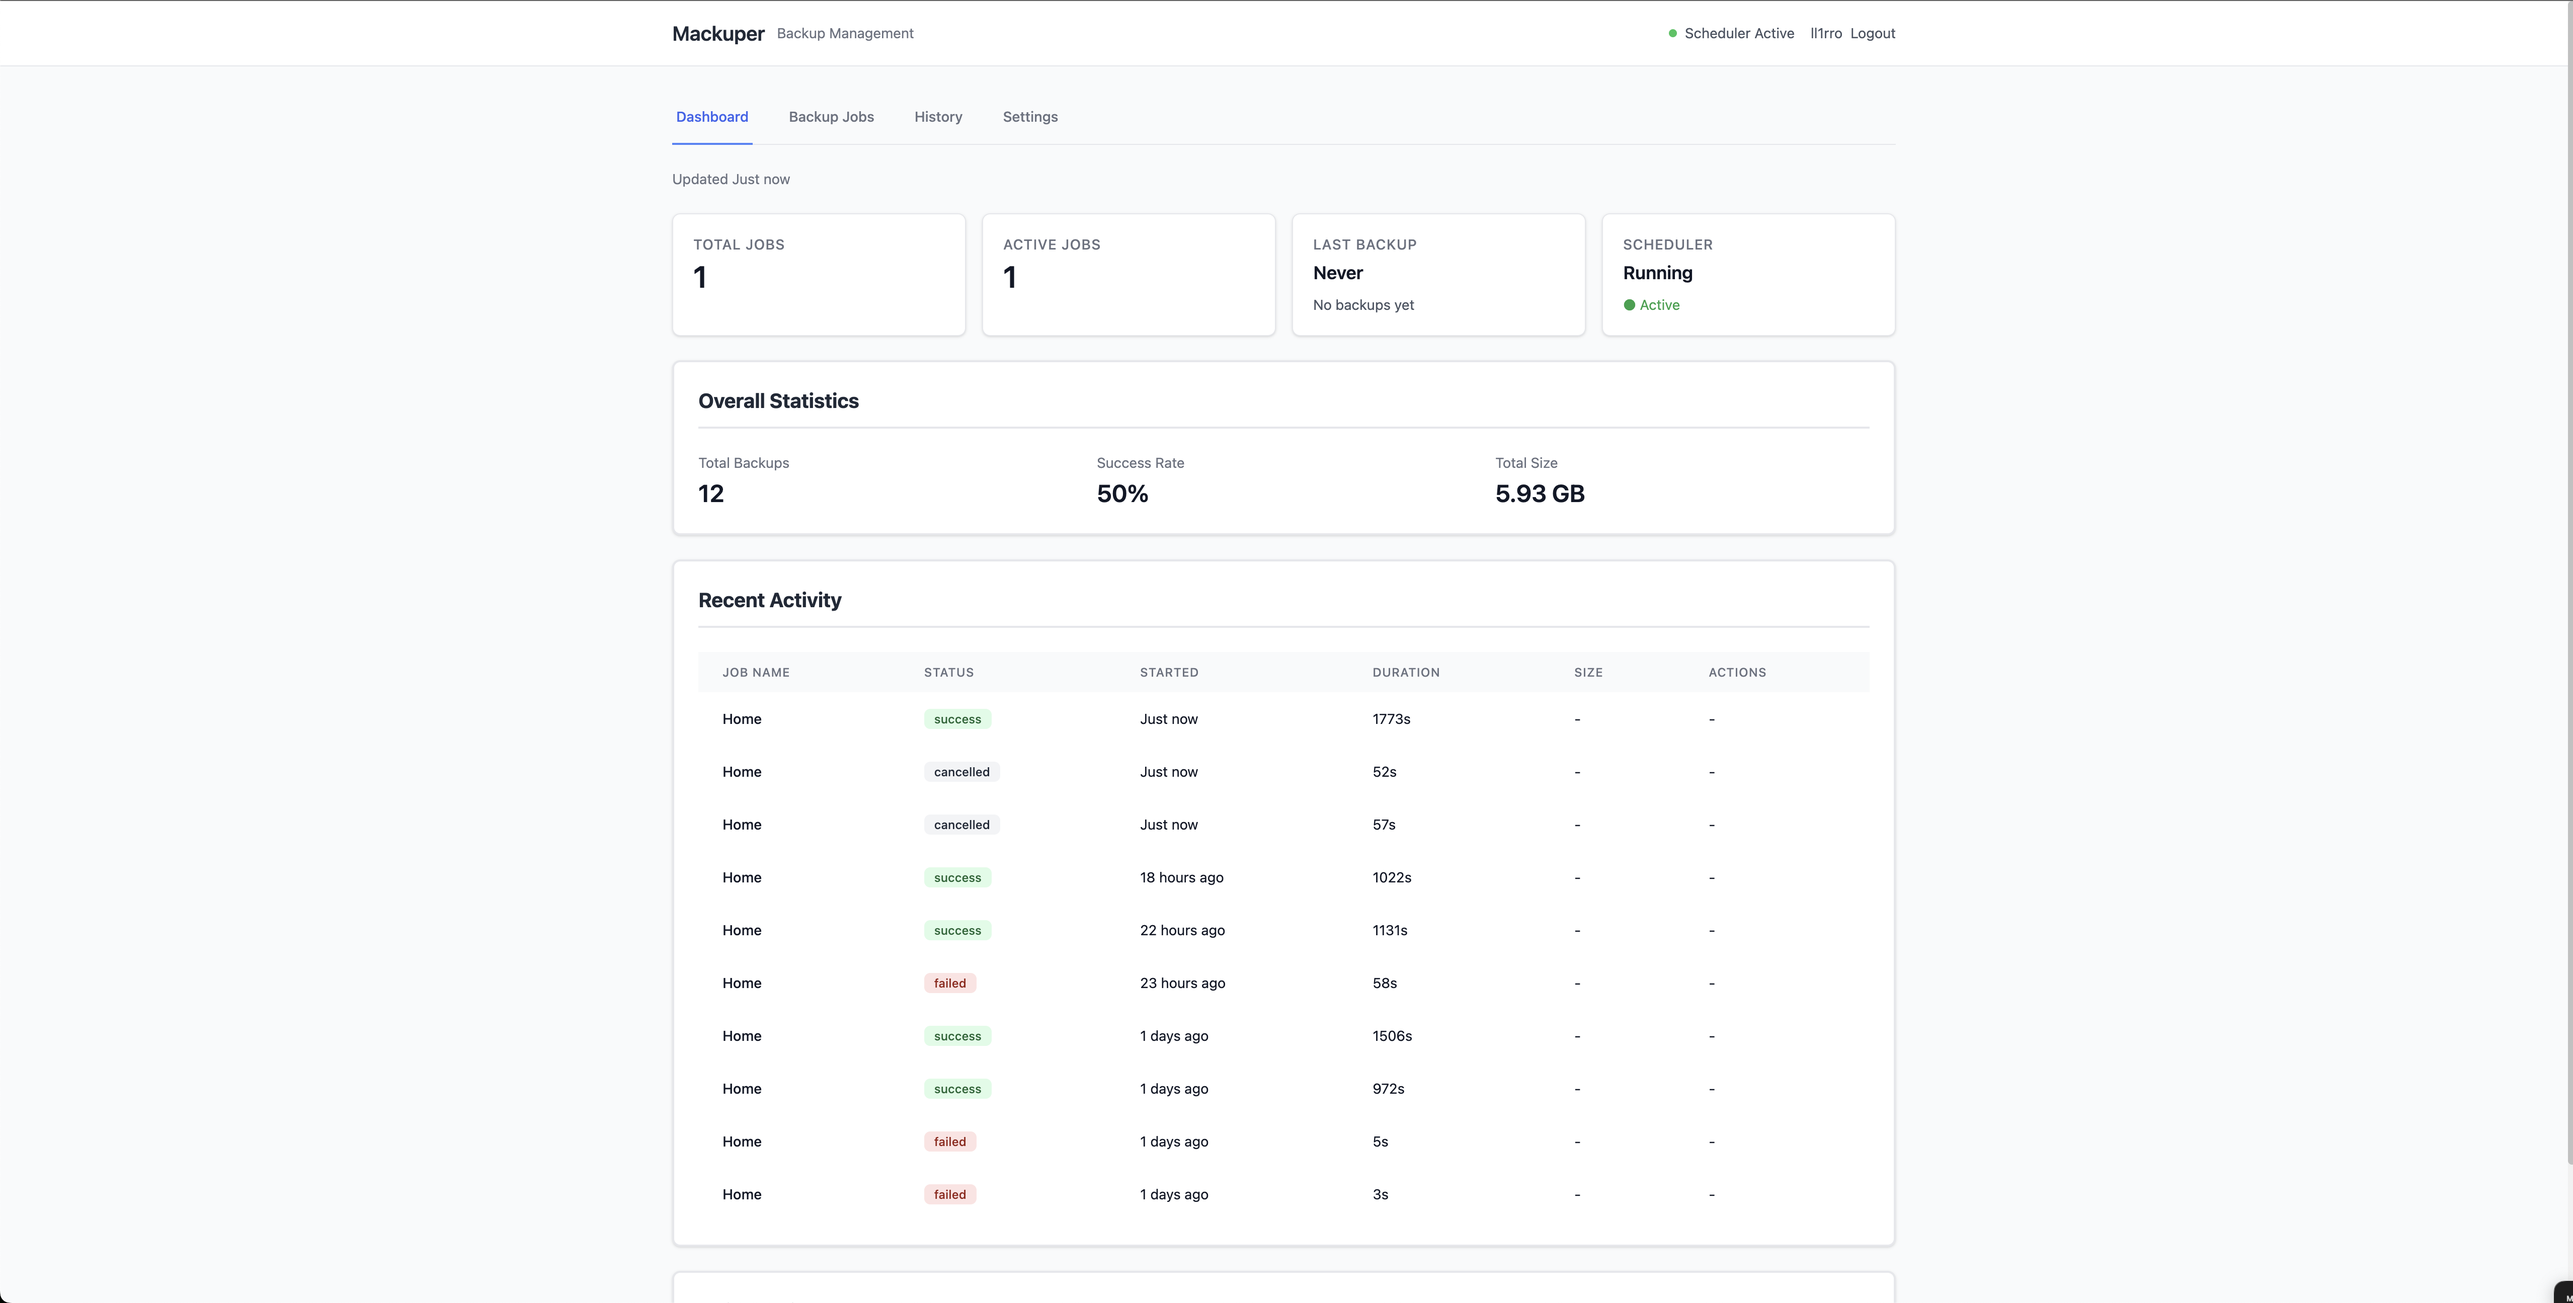
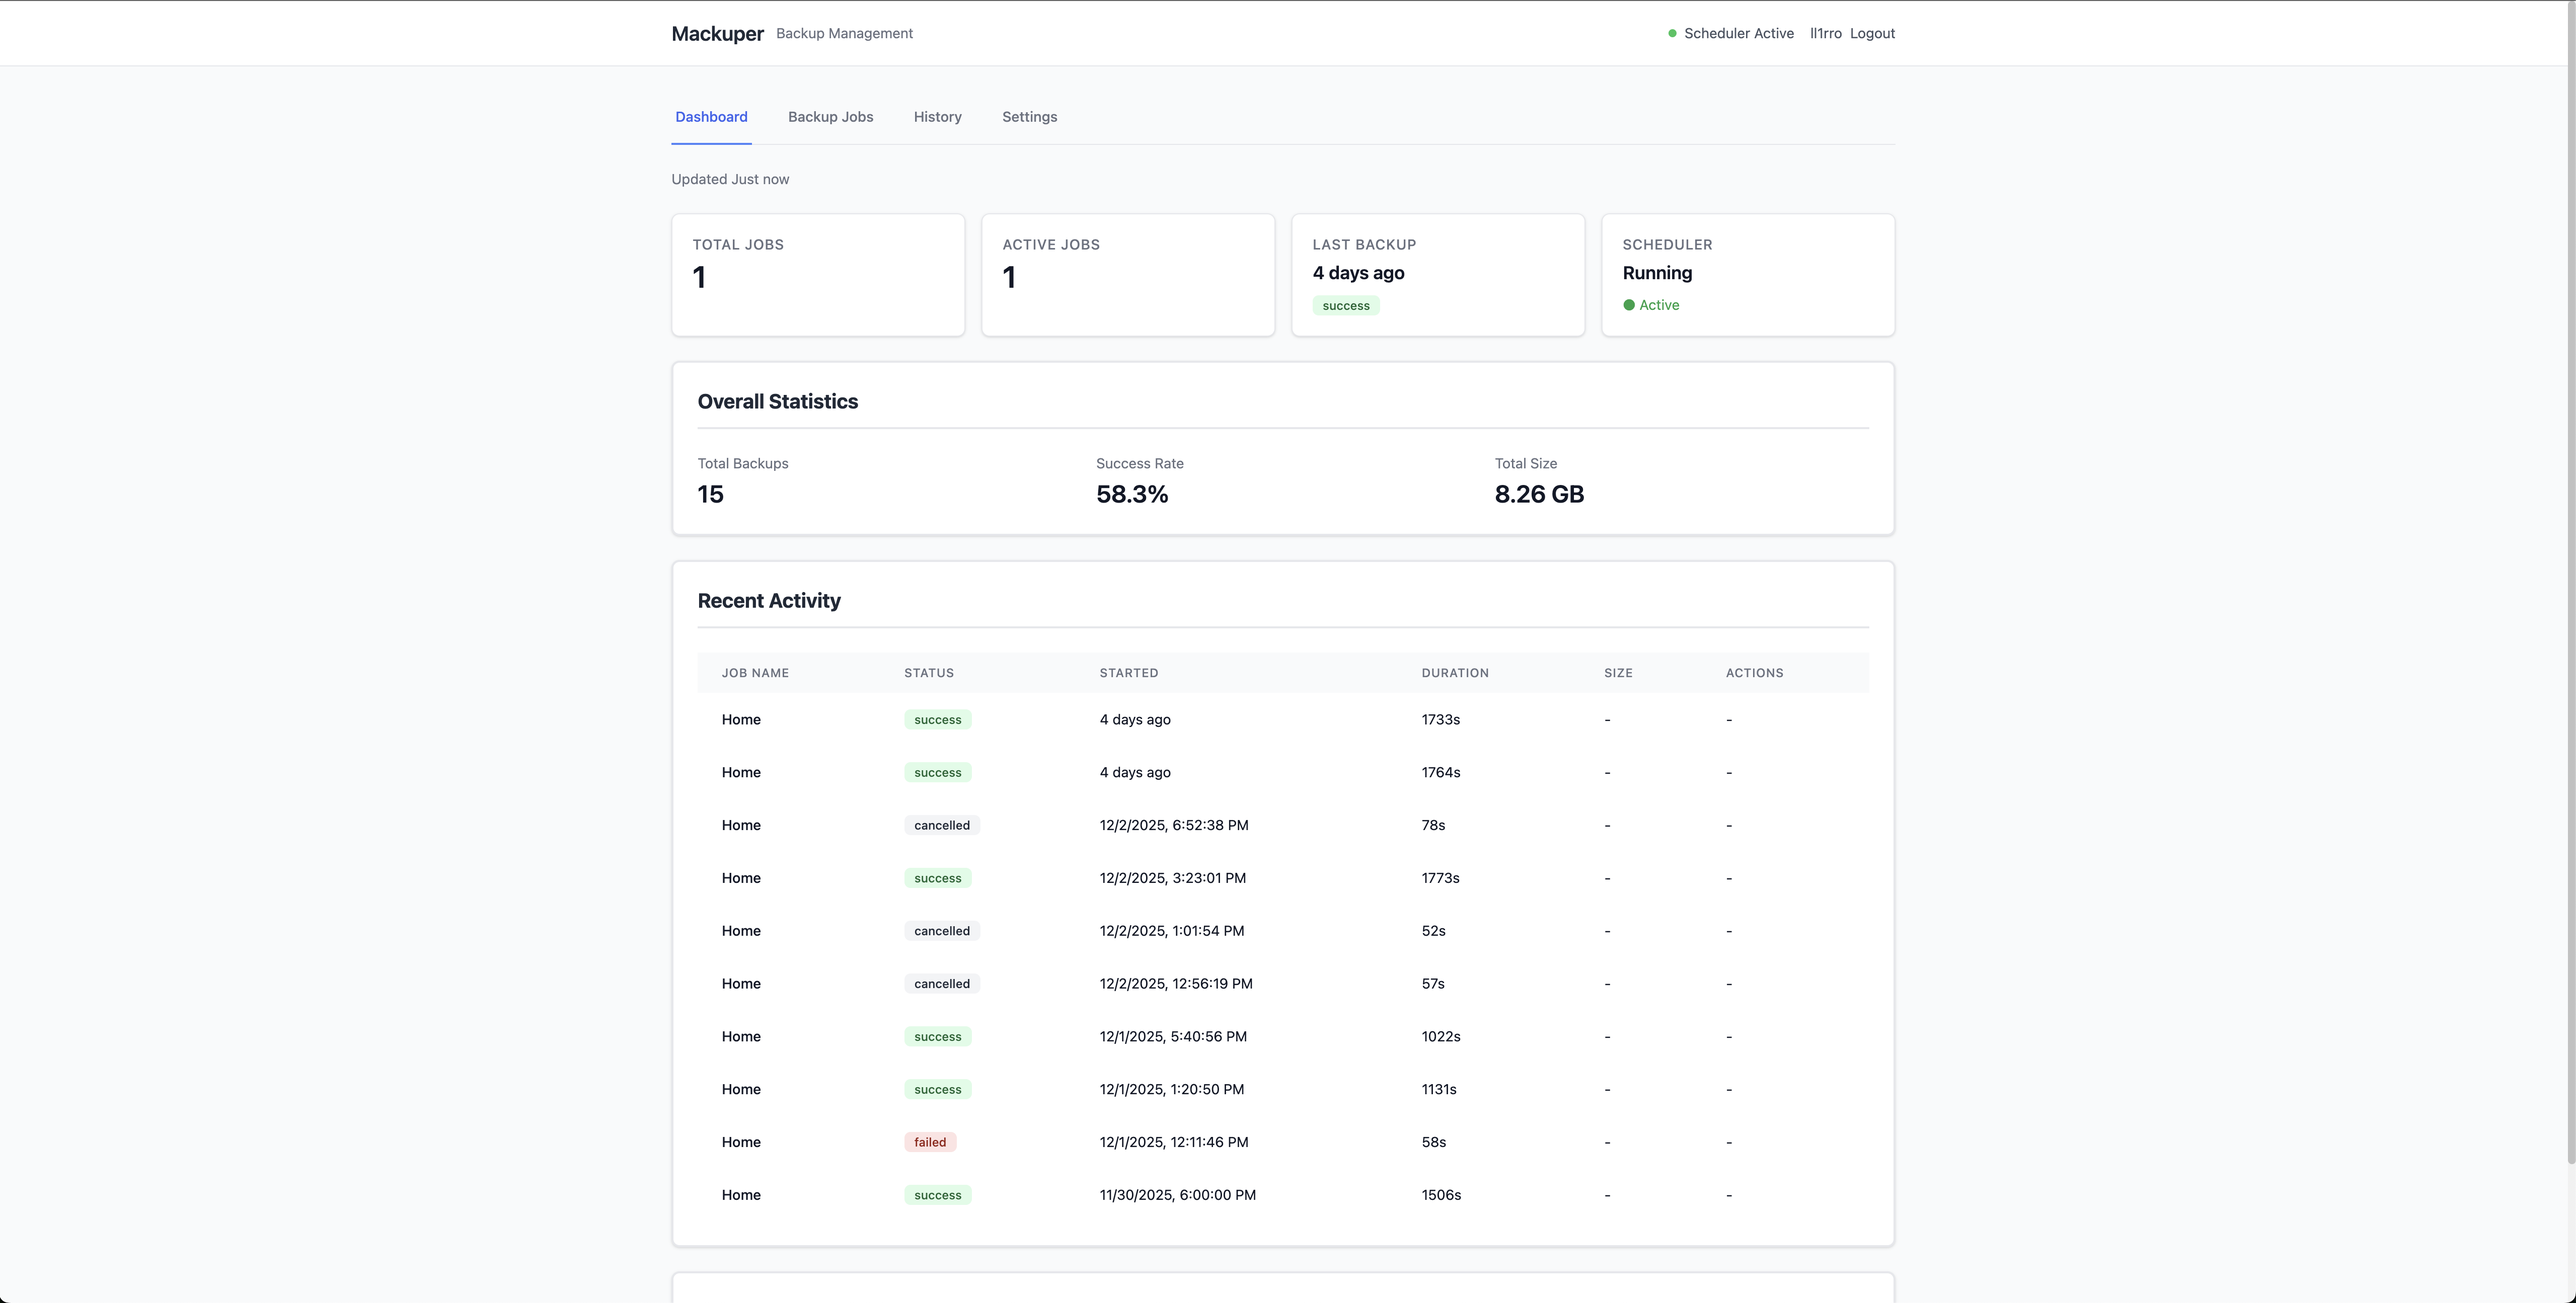
fix: Correct dashboard last backup display
Fix field name mismatch between backend API and frontend that caused
the "Last Backup" widget to always show "Never" and "No backups yet"
even when backup history existed.

Changes:
- Update Alpine.js data structure to use nested last_backup object
- Update template bindings to read last_backup.completed_at and .status
- Use optional chaining (?.) for safe property access
- Update dashboard screenshot to reflect working state

The backend API already returns the correct structure with a last_backup
object containing {job_name, status, completed_at, file_size_mb}. The
frontend now properly consumes this structure instead of expecting
flattened last_backup_time and last_backup_status fields.

diff --git a/templates/app.html b/templates/app.html
@@ -101,12 +101,12 @@
                     </div>
                     <div class="stat-card">
                         <div class="stat-label">Last Backup</div>
-                        <div class="stat-value text-lg" x-text="formatRelativeTime(dashboardData.overview.last_backup_time)"></div>
+                        <div class="stat-value text-lg" x-text="formatRelativeTime(dashboardData.overview.last_backup?.completed_at)"></div>
                         <div class="stat-change">
-                            <span x-show="dashboardData.overview.last_backup_status"
-                                  :class="'badge ' + getStatusBadgeClass(dashboardData.overview.last_backup_status)"
-                                  x-text="dashboardData.overview.last_backup_status"></span>
-                            <span x-show="!dashboardData.overview.last_backup_status">No backups yet</span>
+                            <span x-show="dashboardData.overview.last_backup?.status"
+                                  :class="'badge ' + getStatusBadgeClass(dashboardData.overview.last_backup?.status)"
+                                  x-text="dashboardData.overview.last_backup?.status"></span>
+                            <span x-show="!dashboardData.overview.last_backup">No backups yet</span>
                         </div>
                     </div>
                     <div class="stat-card">

diff --git a/app/static/js/app.js b/app/static/js/app.js
@@ -19,8 +19,7 @@ function mackuperApp() {
             overview: {
                 total_jobs: 0,
                 active_jobs: 0,
-                last_backup_time: null,
-                last_backup_status: null,
+                last_backup: null,
                 scheduler_running: false
             },
             recentActivity: [],
@@ -40,6 +39,7 @@ function mackuperApp() {
         // Modal state
         historyModalOpen: false,
         historyModalContent: '',
+        currentHistoryId: null,
 
         // Refresh timestamps
         lastDashboardRefresh: Date.now(),
